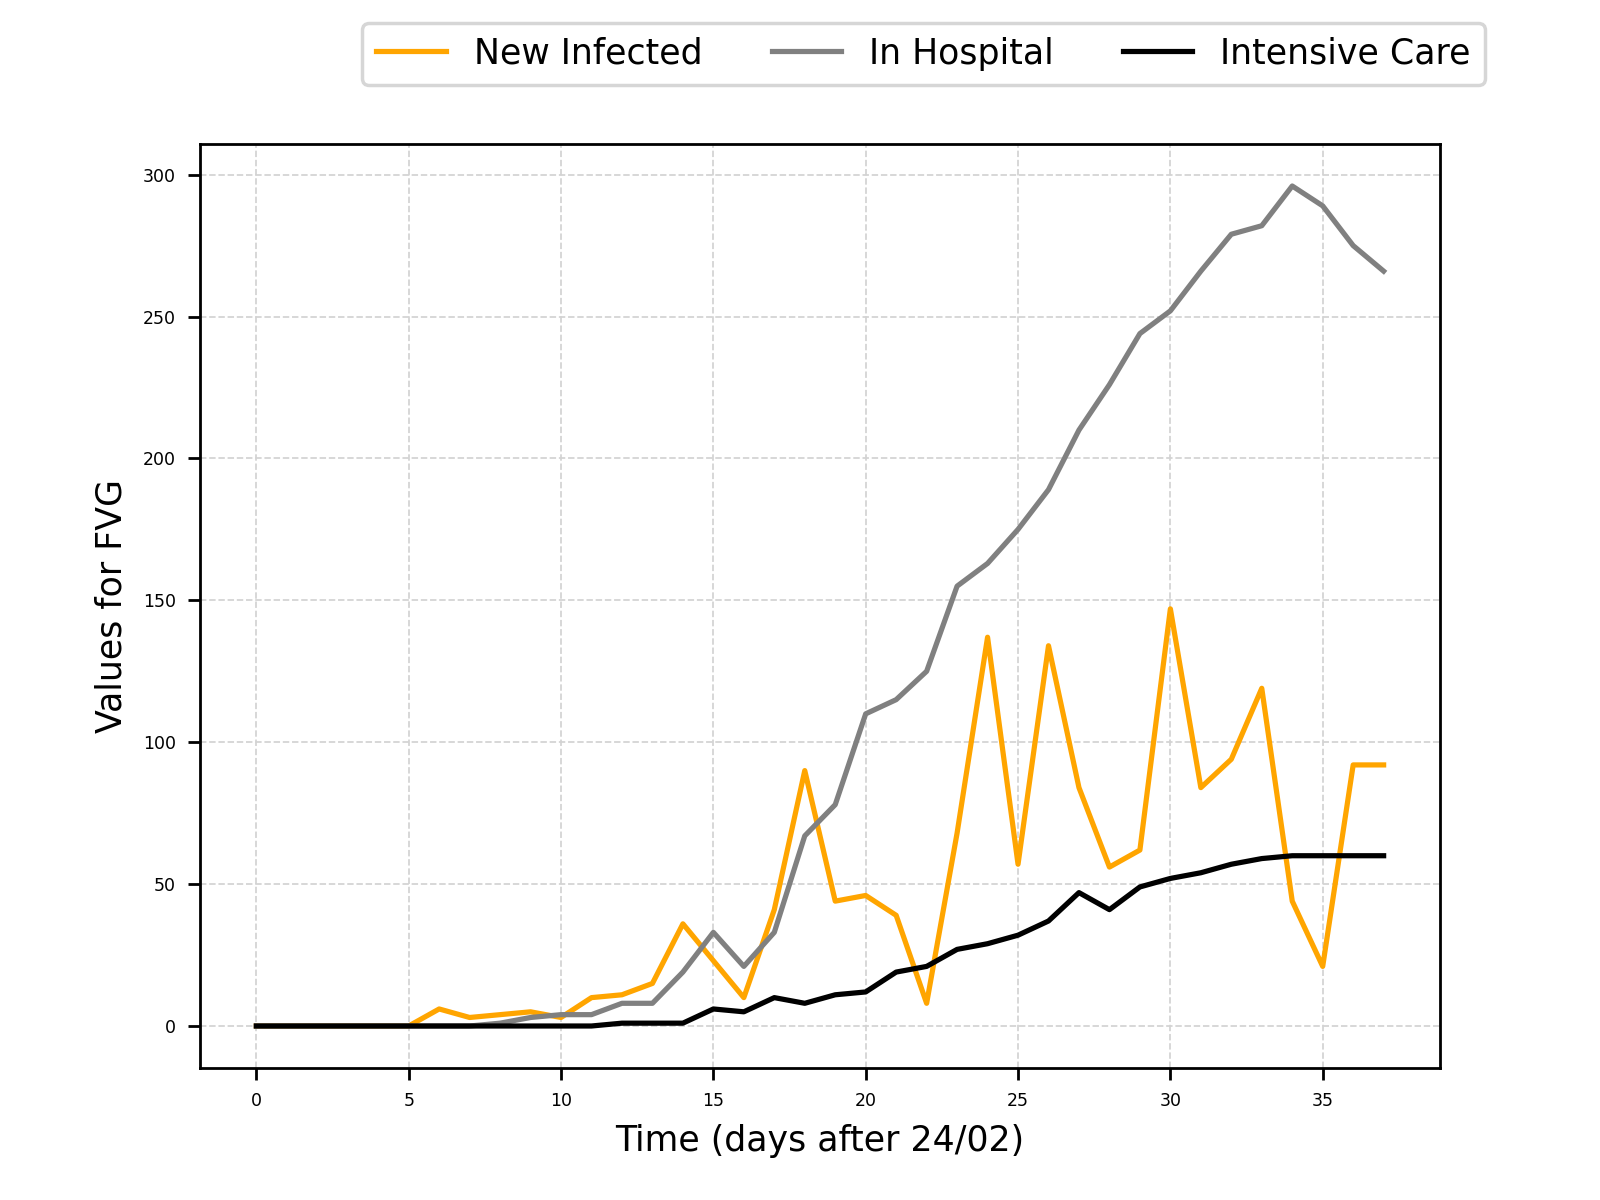
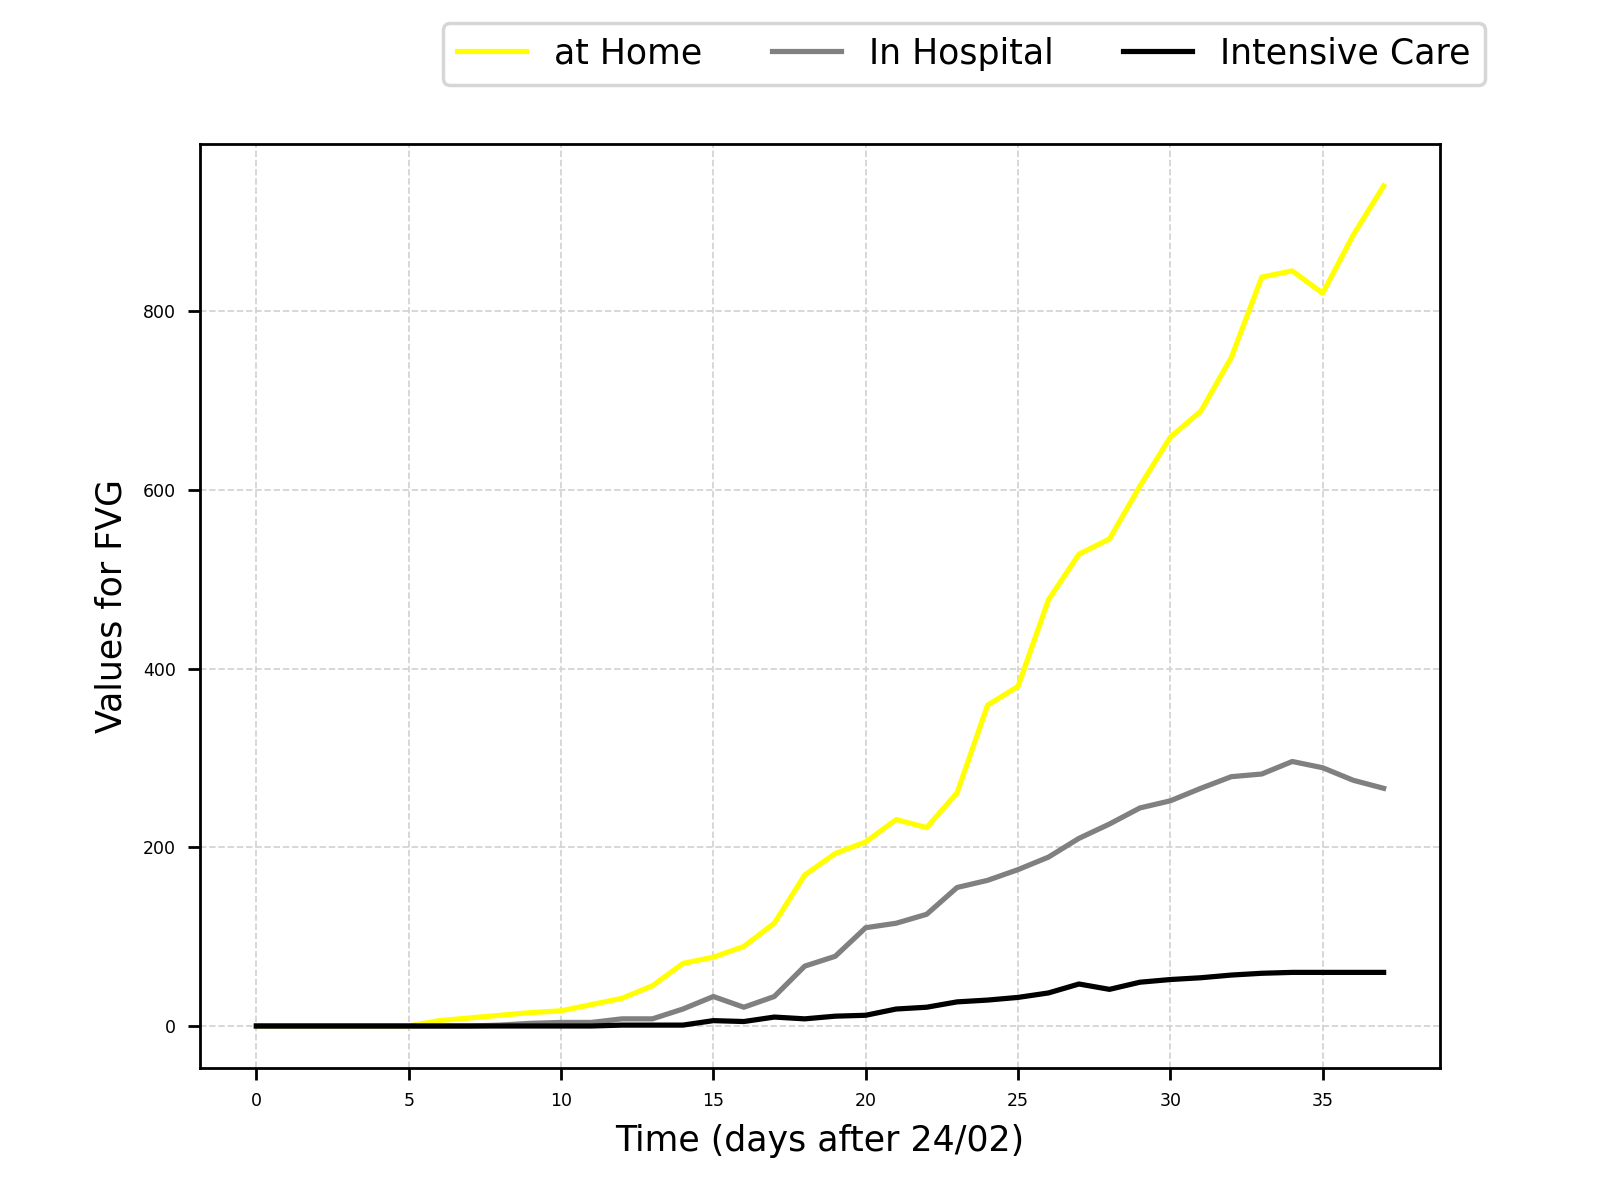
one less in fvg

diff --git a/regional.py b/regional.py
@@ -124,22 +124,12 @@ plt.clf()
 
 plt.xlabel('Time (days after 24/02)')
 plt.ylabel('Values for FVG')
-plt.plot(days, data_fvg['nuovi_positivi'], c='orange', linestyle='-')
-plt.plot(days, data_fvg['totale_ospedalizzati'], c='grey', linestyle='-')
-plt.plot(days, data_fvg['terapia_intensiva'], c='black', linestyle='-')
-plt.legend(('New Infected','In Hospital','Intensive Care'),loc='upper right', bbox_to_anchor=(1.05, 1.15), ncol=3)
-plt.grid(color='lightgray', linestyle='--', linewidth=0.5)
-plt.savefig('./region-fvg/fvg-curves-3-hospital.png', dpi = 250)
-plt.clf()
-
-plt.xlabel('Time (days after 24/02)')
-plt.ylabel('Values for FVG')
 plt.plot(days, data_fvg['isolamento_domiciliare'], c='yellow', linestyle='-')
 plt.plot(days, data_fvg['totale_ospedalizzati'], c='grey', linestyle='-')
 plt.plot(days, data_fvg['terapia_intensiva'], c='black', linestyle='-')
 plt.legend(('at Home','In Hospital','Intensive Care'),loc='upper right', bbox_to_anchor=(1.05, 1.15), ncol=3)
 plt.grid(color='lightgray', linestyle='--', linewidth=0.5)
-plt.savefig('./region-fvg/fvg-curves-4-hospital.png', dpi = 250)
+plt.savefig('./region-fvg/fvg-curves-3-hospital.png', dpi = 250)
 plt.clf()
 
 tot_fvg = dataset.loc[dataset['denominazione_regione']=='Friuli Venezia Giulia']['totale_casi']
